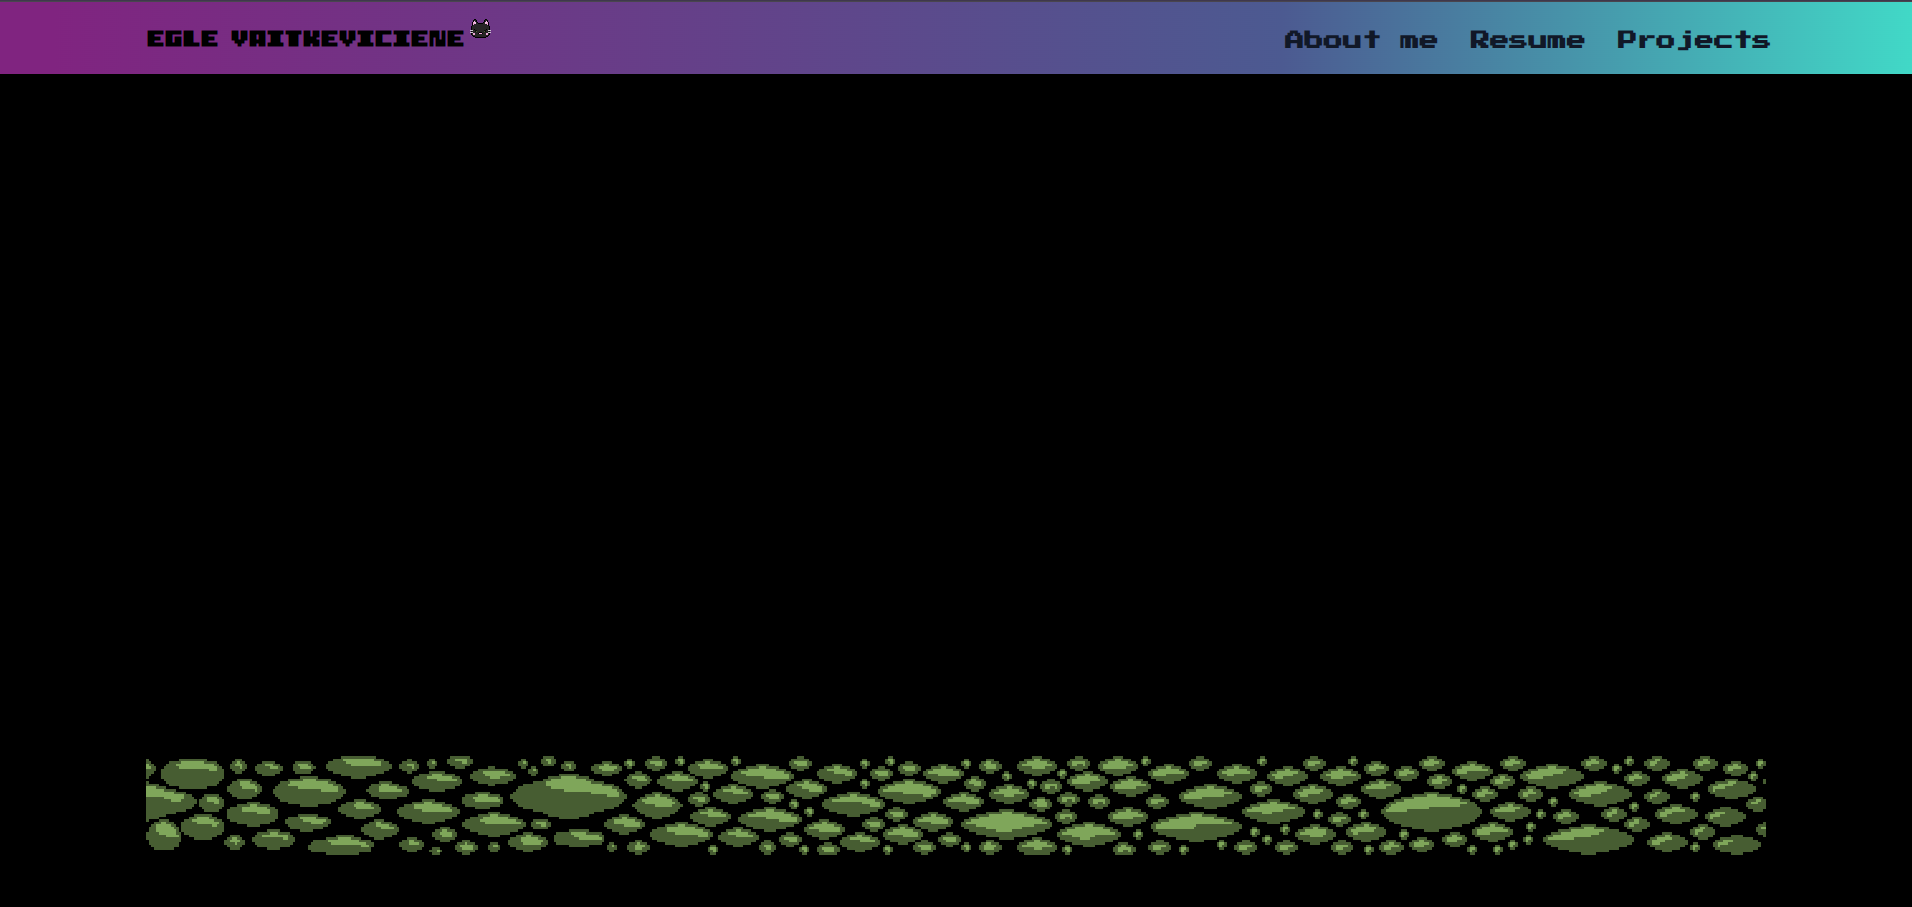
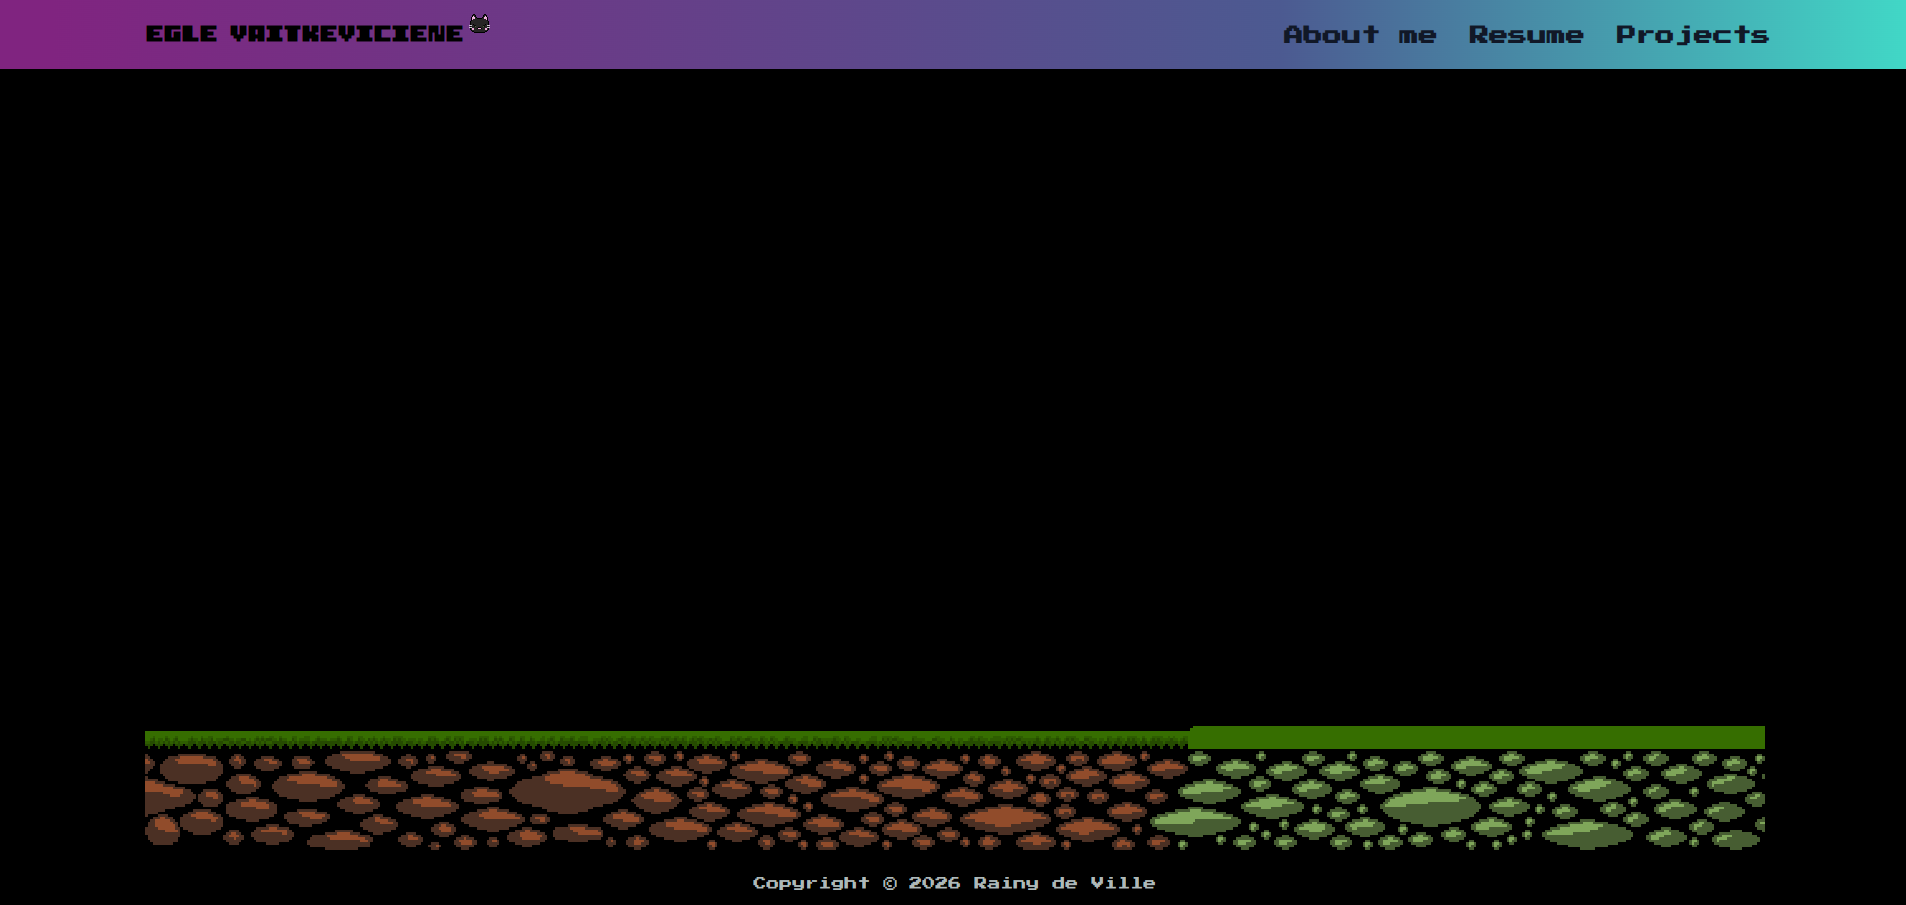
Updated footer, background and progress

Changed region(s): [[0.0619, 0.8044, 0.9286, 0.9901], [0.0, 0.0, 1.0, 0.0928]]

diff --git a/react-version/src/components/Footer.jsx b/react-version/src/components/Footer.jsx
@@ -4,7 +4,7 @@ export default function Footer() {
   return (
     <div>
       <p id="copyright" style={{ fontFamily: "PressStart2P" }}>
-        Copyright © 2025 Rainy de Ville
+        Copyright © 2026 Rainy de Ville
       </p>
     </div>
   );
